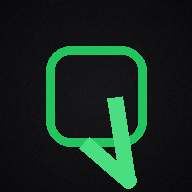
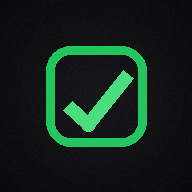
fix: checkmark contenido dentro del cuadro del icono

Changed region(s): [[0.3125, 0.3438, 0.7188, 1.0]]

diff --git a/scripts/make_icon.py b/scripts/make_icon.py
@@ -19,25 +19,21 @@ def make_icon(size):
     GREEN = (34, 197, 94)      # #22C55E
     GREEN_HI = (74, 222, 128)  # #4ADE80
 
-    # Checkbox redondeado
+    # Checkbox redondeado (caja)
     m = size * 0.24
     box = [m, m, size - m, size - m]
     bw = max(6, int(size * 0.05))
     d.rounded_rectangle(box, radius=size * 0.13, outline=GREEN, width=bw)
 
-    # Checkmark nitido: dos segmentos rectos con vertice agudo
-    lw = max(9, int(size * 0.085))
-    x0 = m + size * 0.20   # inicio abajo-izq
-    y0 = m + size * 0.50
-    x1 = m + size * 0.43   # vertice (punto mas bajo del check)
-    y1 = m + size * 0.70
-    x2 = size - m - size * 0.16  # punta arriba-der
-    y2 = m + size * 0.27
-    # dibujar como poligono relleno para esquina aguda y grosor uniforme
-    # primer segmento
+    # Checkmark DENTRO de la caja (coordenadas como fraccion de size)
+    # La caja va de 0.24 a 0.76; el check se mantiene entre 0.35 y 0.67.
+    lw = max(9, int(size * 0.075))
+    p = lambda fx, fy: (fx * size, fy * size)
+    (x0, y0) = p(0.35, 0.55)   # inicio abajo-izq (dentro)
+    (x1, y1) = p(0.46, 0.65)   # vertice (punto mas bajo, dentro)
+    (x2, y2) = p(0.67, 0.39)   # punta arriba-der (dentro)
     d.line([(x0, y0), (x1, y1)], fill=GREEN_HI, width=lw)
     d.line([(x1, y1), (x2, y2)], fill=GREEN_HI, width=lw)
-    # refuerzo del vertice (circulo pequeño) para que la union sea solida
     r = lw / 2
     d.ellipse([x1 - r, y1 - r, x1 + r, y1 + r], fill=GREEN_HI)
 
